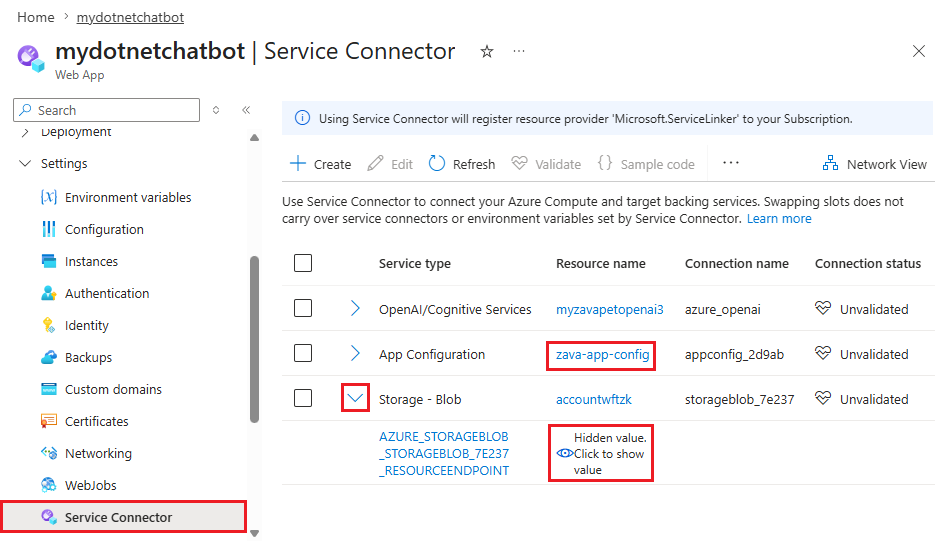
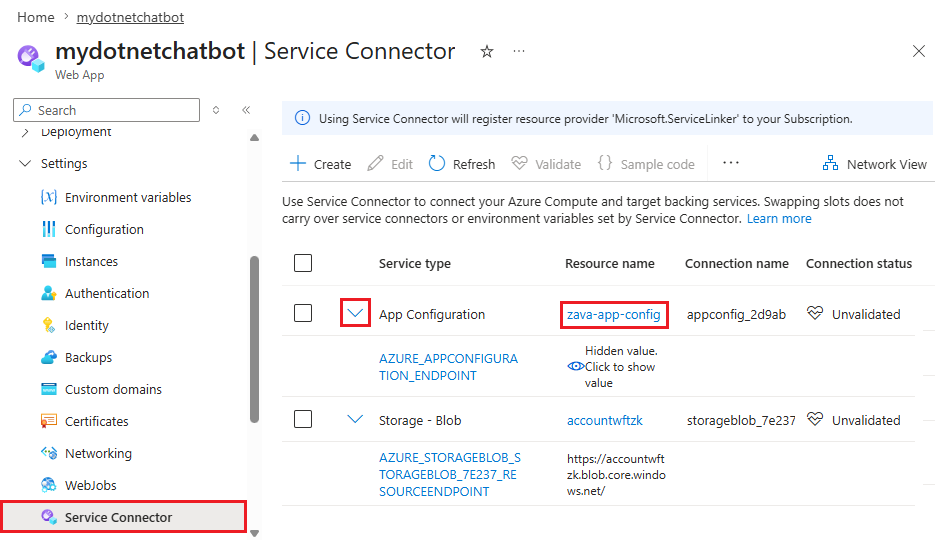
clarify

diff --git a/articles/service-connector/tutorial-portal-app-configuration-store.md b/articles/service-connector/tutorial-portal-app-configuration-store.md
@@ -5,9 +5,9 @@ author: maud-lv
 ms.author: malev
 ms.service: service-connector
 ms.topic: tutorial
-ms.date: 04/27/2026
+ms.date: 04/28/2026
 ms.custom: sfi-image-nochange
-#customer intent: As an App Service developer and user of related Azure services, I want to learn how to store my Service Connector information in Azure App Configuration so I can better support my Infrastructure as Code tools.
+#customer intent: As an app developer who uses other related Azure services, I want to learn how to store my Service Connector configurations in App Configuration so I can better support my Infrastructure as Code tools.
 ---
 
 # Tutorial: Store Service Connector configuration in App Configuration
@@ -48,14 +48,16 @@ To store your connection configuration in App Configuration, first connect your 
 
 1. On the **Authentication** tab, select **System assigned managed identity**.
 1. Select **Next: Networking**.
-1. On the **Networking** tab, select **Configure firewall rules to enable access to target service**. Service Connector writes configuration to App Configuration directly, so you need to enable public access to App Configuration.
+1. On the **Networking** tab, select **Configure firewall rules to enable access to target service**.
+   >[!NOTE]
+   >Because Service Connector writes configuration to App Configuration directly, App Configuration must have public access enabled.
 1. Select **Next: Review + Create**, and when validation passes, select **Create**.
 
 It can take some time to create the connection. When the connection is created, its listing appears on the app's **Service Connector** page.
 
 ## Connect App Service to Blob Storage and store configuration in App Configuration
 
-Next, connect your App Service app to another target service and store the configuration in App Configuration instead of in the app settings. The following example uses Blob Storage. You can follow the same process for other target services.
+Now connect your App Service app to another target service and store the configuration in App Configuration instead of in the app settings. The following example uses Blob Storage. You can follow the same process for other target services.
 
 1. On the Azure portal page for your App Service app, select **Service Connector** under **Settings** in the left navigation menu, and then select **Create**.
 1. On the **Create connection** form, complete the following information:
@@ -82,15 +84,16 @@ Next, connect your App Service app to another target service and store the confi
 
 ## View your configuration in App Configuration
 
-Once the **Storage - Blob** connection appears on the App Service page, you can view its configuration.
+Connections appear on the App Service **Service Connector** page, where you can view their configurations.
 
-1. Select the arrow next to the **Storage - Blob** connection to expand it, and then select **Hidden value. Click to show value** to see the value of the Blob Storage connection.
+1. To view service endpoints and values, select the arrow next to a connection to expand it, and then select **Hidden value. Click to show value** to show the connection value.
+
+1. To go to a connection's target resource page, select its link in the **Resource name** column. Select the **Resource name** link for the **App Configuration** connection.
 
    :::image type="content" source="./media/tutorial-portal-app-configuration-store/app-configuration-authentication.png" alt-text="Screenshot of the Azure portal, viewing the Blob Storage connection value."  lightbox="./media/tutorial-portal-app-configuration-store/app-configuration-authentication.png":::
 
-1. Open the connected app configuration by selecting the **Resource name** link next to the **App Configuration** connection.
 1. On the **App Configuration** page, select **Configuration explorer** under **Configuration management** in the left navigation menu.
-1. On the **Configuration explorer** page, select the checkbox next to the blob storage configuration name, and then select **Advanced edit** from the top menu bar.
+1. On the **Configuration explorer** page, select the checkbox next to the **Blob Storage** configuration name, and then select **Advanced edit** from the top menu bar.
 
    :::image type="content" source="./media/tutorial-portal-app-configuration-store/storage-network.png" alt-text="Screenshot of the Azure portal, showing how to edit configuration."  lightbox="./media/tutorial-portal-app-configuration-store/storage-network.png":::
 
@@ -118,7 +121,9 @@ var blobServiceClient = new BlobServiceClient(new Uri(config[$"AZURE_STORAGEBLOB
 
 ## Clean up resources
 
-If you no longer need the resources you used in this tutorial, you can delete them individually or by deleting the resource group or groups that contain them. List all resource groups in the Azure portal, select the resource group that contains the resources, and then select **Delete** on the resource group's page.
+If you no longer need the resources you used in this tutorial, you can delete them individually or by deleting the resource group or groups that contain them.
+
+To delete a resource group, search for and select **Resource groups** in the Azure portal, select the resource group that contains the resources to delete, and then select **Delete** on the resource group's page.
 
 ## Related content
 
